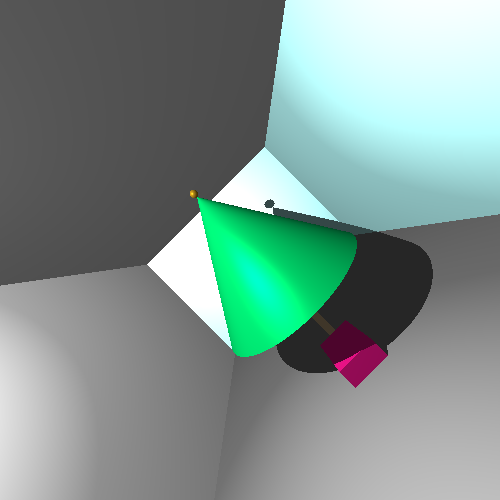
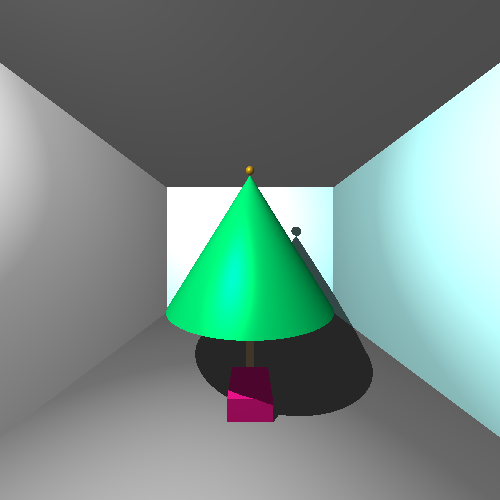
grouping in picking added

diff --git a/main.cpp b/main.cpp
@@ -20,6 +20,7 @@
 #include <SDL2/SDL_mouse.h>
 #include <cmath>
 #include <iostream>
+#include <sys/select.h>
 
 #define LARGURA_TELA 500
 #define ALTURA_TELA  500
@@ -58,8 +59,8 @@ scene tarefa5(){
 
 scene tarefa6(){
     // camera O(vp(0, 0, 0), vp(0, 0, -1), vp(1, 1, -1));
-    // camera O(vp(0, 800, -665), vp(0, 0, -665), vp(0, 800, -800)); // CIMA
-    camera O(vp(0, 0, 0), vp(0, 0, -165), vp(0, 90, -165)); // FRENTE
+    camera O(vp(0, 800, -665), vp(0, 0, -665), vp(0, 800, -800)); // CIMA
+    // camera O(vp(0, 0, 0), vp(0, 0, -165), vp(0, 90, -165)); // FRENTE
     // camera O(vp(665, 0, -665), vp(0, 0, -165), vp(665, 90, -665)); // DIREITA
     viewport vw(60, 60, -20);
     canvas c(500, 500, px::convert_rgb(255, 255, 255));
@@ -233,7 +234,7 @@ scene cena_qualquer(){
 
 int main(){
     scene cena = tarefa5(); 
-    cena.draw_scenario(1); 
+    cena.draw_scenario(0); 
     cena.save_scenario("image.png");
     
     //SDL2 stuffs
@@ -248,14 +249,15 @@ int main(){
     bool teste = true;
     int testeNum = 0; 
     object *choosen_object;
+    set<object*> selecteds;
 
     int press = 0, x, y, i, j;
     
-    sdlEngine.atualizarCanvas(cena);
+    sdlEngine.atualizarCanvas(cena, selecteds);
     sdlEngine.atualizarJanela();
     
     while(!quit){
-        while(SDL_PollEvent(&e) ){
+        while(SDL_PollEvent(&e)){
             if(e.type == SDL_QUIT) quit = true;
             if(SDL_MOUSEBUTTONDOWN == e.type){
                 if(SDL_BUTTON_LEFT == e.button.button){
@@ -266,7 +268,7 @@ int main(){
                         std::cout << "NENHUM OBJETO SELECIONADO\n";  
                         continue;
                     }
-                    sdlEngine.atualizarCanvas(cena, choosen_object);
+                    sdlEngine.atualizarCanvas(cena, selecteds, choosen_object);
                     sdlEngine.atualizarJanela();
                     int op;
                     std::cout << " --- MENU DE OPCOES ---\n";
@@ -277,11 +279,12 @@ int main(){
                     std::cout << "(5) - Cisalhamento\n";
                     std::cout << "(6) - Mudar Coloração\n";
                     std::cout << "(7) - Deletar\n";
+                    std::cout << "(8) - Selecionar/Deselecionar Objetos\n";
                     cout << "Digite a sua opção: "; cin >> op;
                     if(op == 1){
                         int i, j, k;
                         std::cout << "Digite o local de translação: "; cin >> i >> j >> k;
-                        choosen_object->translation(vp(i, j, k));
+                        for(object *o:selecteds) o->translation(vp(i, j, k));
                     }else if(op == 2){
                         std::cout << " --- MENU DE ROTAÇÕES ---\n";
                         std::cout << "(1) - Rotação no Eixo X\n";
@@ -292,11 +295,11 @@ int main(){
                         double angle;
                         std::cout << "Digite o ângulo da rotação(em radianos): "; cin >> angle;
                         if(op == 1){
-                            choosen_object->rotation_x(angle);                             
+                            for(object *o:selecteds) o->rotation_x(angle);
                         }else if(op == 2){
-                            choosen_object->rotation_y(angle);                             
+                            for(object *o:selecteds) o->rotation_y(angle);
                         }else if(op == 3){
-                            choosen_object->rotation_z(angle);                             
+                            for(object *o:selecteds) o->rotation_z(angle);
                         }else{
                             // int i, j, k;
                             // std::cout << "Digite o ponto da origem do eixo: "; cin >> i >> j >> k; vp O(i, j, k);
@@ -304,30 +307,30 @@ int main(){
                             // choosen_object->rotate_arbitrary(O, D, angle);                             
                         }
                     }else if(op == 3){
-                        std::cout << " --- MENU DE ROTAÇÕES ---\n";
+                        std::cout << " --- MENU DE ESPELHAMENTO ---\n";
                         std::cout << "(1) - Espelhamento no plano XY\n";
                         std::cout << "(2) - Espelhamento no plano XZ\n";
                         std::cout << "(3) - Espelhamento no plano YZ\n";
                         std::cout << "(4) - Espelhamento no plano arbitrário\n";
                         cout << "Digite a sua opção: "; cin >> op;
                         if(op == 1){
-                            choosen_object->mirror_xy();                             
+                            for(object *o:selecteds) o->mirror_xy();
                         }else if(op == 2){
-                            choosen_object->mirror_xz();                             
+                            for(object *o:selecteds) o->mirror_xz();
                         }else if(op == 3){
-                            choosen_object->mirror_yz();                             
+                            for(object *o:selecteds) o->mirror_yz();
                         }else{
                             double i, j, k;
                             std::cout << "Digite o vetor normal ao plano: "; cin >> i >> j >> k; vp n(i, j, k);
                             std::cout << "Digite o ponto que pertencem ao plano: "; cin >> i >> j >> k; vp p(i, j, k);
-                            choosen_object->mirror_arbitrary(n, p);                             
+                            for(object *o:selecteds) o->mirror_arbitrary(n, p);
                         }
                     }else if(op == 4){
                         double i, j, k;
                         std::cout << "Digite o tamanho do objeto: "; cin >> i >> j >> k; vp s(i, j, k);
-                        choosen_object->scaling(s);
+                        for(object *o:selecteds) o->scaling(s);
                     }else if(op == 5){
-                        std::cout << " --- MENU DE ROTAÇÕES ---\n";
+                        std::cout << " --- MENU DE CISALHAMENTO ---\n";
                         std::cout << "(1) - Cisalhamento XY\n";
                         std::cout << "(2) - Cisalhamento YX\n";
                         std::cout << "(3) - Cisalhamento XZ\n";
@@ -337,23 +340,29 @@ int main(){
                         cout << "Digite a sua opção: "; cin >> op;
                         double angle;
                         std::cout << "Digite o ângulo do cisalhamento(em radianos): "; cin >> angle;
-                        if(op == 1) choosen_object->shear_xy(angle);                             
-                        else if(op == 2) choosen_object->shear_yx(angle);                             
-                        else if(op == 3) choosen_object->shear_xz(angle);                             
-                        else if(op == 4) choosen_object->shear_zx(angle);                             
-                        else if(op == 5) choosen_object->shear_yz(angle);                             
-                        else choosen_object->shear_zy(angle);                             
+                        if(op == 1) for(object* o:selecteds) o->shear_xy(angle);                             
+                        else if(op == 2) for(object* o:selecteds) o->shear_yx(angle);                             
+                        else if(op == 3) for(object* o:selecteds) o->shear_xz(angle);                             
+                        else if(op == 4) for(object* o:selecteds) o->shear_zx(angle);                             
+                        else if(op == 5) for(object* o:selecteds) o->shear_yz(angle);                             
+                        else for(object* o:selecteds) o->shear_zy(angle);                             
                     }else if(op == 6){
                         double i, j, k;
                         std::cout << "Digite as intensidades do ka: "; cin >> i >> j >> k; px ka(i, j, k);
                         std::cout << "Digite as intensidades do kd: "; cin >> i >> j >> k; px kd(i, j, k);
                         std::cout << "Digite as intensidades do ks: "; cin >> i >> j >> k; px ks(i, j, k);
-                        choosen_object->set_k_a(ka); choosen_object->set_k_d(kd); choosen_object->set_k_s(ks);
+                        for(object* o:selecteds){
+                            o->set_k_a(ka); 
+                            o->set_k_d(kd);
+                            o->set_k_s(ks);
+                        }
+                    }else if(op == 7){
+                        for(object* o:selecteds) cena.del_object(o); 
                     }else{
-                        cena.del_object(choosen_object); 
+                        continue;    
                     }
                     cena.draw_scenario(0);
-                    sdlEngine.atualizarCanvas(cena);
+                    sdlEngine.atualizarCanvas(cena, selecteds);
                     sdlEngine.atualizarJanela();
                 }
             }

diff --git a/header/SDLEngine.hpp b/header/SDLEngine.hpp
@@ -3,6 +3,7 @@
 
 #include <iostream>
 #include <cstring>
+#include <set>
 #include "scene.hpp"
 
 #include <SDL2/SDL.h>
@@ -119,14 +120,14 @@ public:
      *
      * \param novoCanvas Array com as novas cores do canvas, com cada valor variando de 0 a 1
     */
-    void atualizarCanvas(scene &cena, object* o = nullptr);
+    void atualizarCanvas(scene &cena, std::set<object*> &objs, object* o = nullptr);
 
     /*!
      * Muda a regra de stretch
      *
      * \param scretch Nova regra de stretch
     */
-    void mudarStretch ( StretchCanvas scretch );
+    void mudarStretch(StretchCanvas scretch);
 
     /*!
      * Muda as proporções do canvas
@@ -134,19 +135,19 @@ public:
      * \param novaLargura Nova lagura do canvas
      * \param novaAltura Nova altura do canvas
     */
-    void mudarCanvas ( uint novaLargura, uint novaAltura );
+    void mudarCanvas(uint novaLargura, uint novaAltura);
 
     /*!
      * Verifica se houve algum evento de mudança de tamanho da janela e atualiza as informações da surface da janela caso haja o evento
      *
      * \param event <a href='https://wiki.libsdl.org/SDL_Event'>SDL_Event</a> que informará se houve o evento de mudança de tamanho da janela 
     */
-    void junelaMudouTamanho ( const SDL_Event &event );
+    void junelaMudouTamanho(const SDL_Event &event);
 
     /*!
      *  Atualiza a janela
     */
-    void atualizarJanela ();
+    void atualizarJanela();
 
 private:
     

diff --git a/implementation/SDLEngine.cpp b/implementation/SDLEngine.cpp
@@ -35,20 +35,19 @@ SDLEngine::~SDLEngine(){
         delete [] _canvas;
 }
 
-void SDLEngine::atualizarCanvas(scene &cena, object *o){
+void SDLEngine::atualizarCanvas(scene &cena, std::set<object*> &objs, object *o){
+    if(o != nullptr && objs.count(o)) objs.erase(o);
+    else if(o != nullptr) objs.insert(o);
+        
     for(int i = 0, px_position = 0; i < alturaCanvas; i++){
         for(int j = 0; j < larguraCanvas; j++, px_position++){
             px pixel = cena.get_pixel(i, j);
-            if(o != nullptr && o == cena.select_object(i, j)) pixel.set_a(0.5); //alpha
-            // if(o != nullptr && o == cena.select_object(i, j)) pixel = px(0, 0, 1); //azul
+            if(objs.count(cena.select_object(i, j))) pixel.set_a(0.5); //alpha
             _canvas[px_position] = 
                      ((pixel.convert_red() << 0) & R_MASK )
                    + ((pixel.convert_green() << 8) & G_MASK)
                    + ((pixel.convert_blue() << 16) & B_MASK )
                    + ((pixel.convert_alpha() << 24) & A_MASK );
-                   // + ((127 << 24) & A_MASK );
-            // std::cout << _canvas[px_position] << "\n";
-            // if(o != nullptr && o == cena.select_object(i, j)) std::cout << _canvas[px_position] << "\n";
         }
     }
     copiarCanvas();
